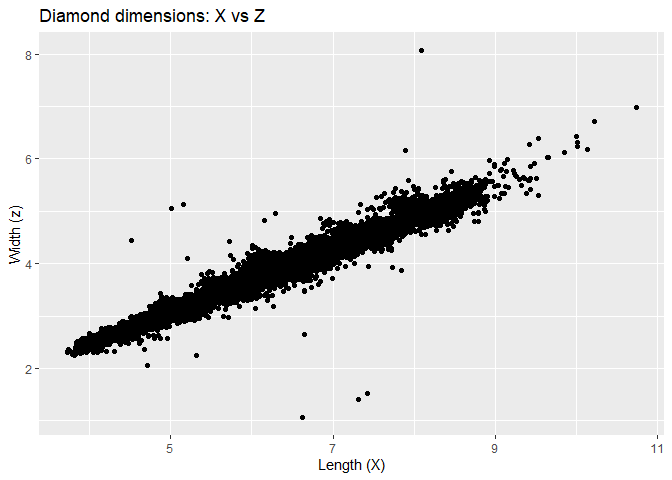
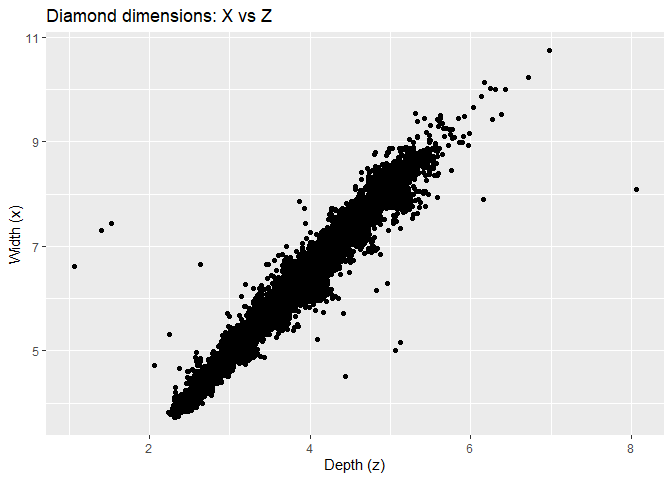
fixed graphs

diff --git a/hw_5.md b/hw_5.md
@@ -55,16 +55,16 @@ print(condensed_diamonds)
     ## # A tibble: 539 x 10
     ##    carat cut       color clarity depth table price     x     y     z
     ##    <dbl> <ord>     <ord> <ord>   <dbl> <dbl> <int> <dbl> <dbl> <dbl>
-    ##  1  0.34 Ideal     D     VVS1     61.2    57  1272  4.51  4.54  2.77
-    ##  2  0.26 Ideal     E     VVS2     62.9    58   554  4.02  4.06  2.54
-    ##  3  0.5  Premium   E     SI1      62.3    58  1316  5.09  5.15  3.19
-    ##  4  0.28 Very Good E     VVS1     61.1    60   646  4.17  4.21  2.56
-    ##  5  0.42 Ideal     D     VS1      62.1    56  1235  4.82  4.78  2.98
-    ##  6  0.41 Good      H     SI1      64.3    54   748  4.72  4.68  3.02
-    ##  7  0.31 Ideal     E     VVS2     61.7    56  1046  4.36  4.33  2.68
-    ##  8  0.33 Ideal     E     VS1      61.5    56   692  4.45  4.5   2.75
-    ##  9  0.36 Premium   E     VS2      62.5    58   684  4.52  4.57  2.84
-    ## 10  0.3  Ideal     E     VVS2     61.8    56  1013  4.35  4.33  2.68
+    ##  1  0.72 Premium   F     SI1      59.9    58  2742  5.85  5.81  3.49
+    ##  2  1.02 Ideal     E     SI2      62      59  4645  6.43  6.4   3.98
+    ##  3  0.72 Premium   E     SI1      62.1    58  2385  5.72  5.69  3.54
+    ##  4  0.34 Very Good F     VS2      62.9    58   686  4.44  4.46  2.8 
+    ##  5  1.54 Ideal     G     VVS1     60.8    57 16316  7.49  7.45  4.54
+    ##  6  1.15 Good      F     SI2      63.8    57  4437  6.65  6.6   4.23
+    ##  7  1.01 Ideal     E     SI2      61.9    56  4921  6.46  6.43  3.99
+    ##  8  0.35 Ideal     H     SI1      61.5    56   523  4.56  4.58  2.81
+    ##  9  0.81 Ideal     H     SI1      62.1    54  2435  6     6.02  3.73
+    ## 10  1    Very Good F     SI2      61.3    61  4372  6.36  6.39  3.91
     ## # ... with 529 more rows
 
 # Calculating the average size of 100 largest diamonds
@@ -80,14 +80,14 @@ condensed_diamonds %>%
     ## # Groups:   clarity [8]
     ##   clarity     n
     ##   <ord>   <int>
-    ## 1 I1          8
-    ## 2 SI2        83
-    ## 3 SI1       135
-    ## 4 VS2       129
-    ## 5 VS1        81
+    ## 1 I1          5
+    ## 2 SI2        75
+    ## 3 SI1       127
+    ## 4 VS2       130
+    ## 5 VS1        92
     ## 6 VVS2       48
-    ## 7 VVS1       37
-    ## 8 IF         18
+    ## 7 VVS1       39
+    ## 8 IF         23
 
 Since the condensed subset of data does not have 100 diamonds in each
 category, we will use the original data.
@@ -177,8 +177,8 @@ of the diamonds data set.
 
 ``` r
 ggplot(diamonds) +
-  geom_point(mapping = aes(x = x, y = y)) +
-  labs(title = "Diamond Dimension: X vs. Y", x = "Length (x)", y = "Height (y)")
+  geom_point(mapping = aes(x = y, y = x)) +
+  labs(title = "Diamond Dimension: X vs. Y", x = "Length (y)", y = "Width (x)")
 ```
 
 ![](hw_5_files/figure-gfm/unnamed-chunk-8-1.png)<!-- -->
@@ -191,8 +191,8 @@ get rid of in order to make a better plot.
 x_y_diamonds <- diamonds %>%
   filter(x > 3 & y < 20)
 ggplot(x_y_diamonds) +
-  geom_point(mapping = aes(x = x, y = y)) +
-  labs(title = "Diamond dimensions: X vs Y", x = "Length (X)", y = "Height (y)")
+  geom_point(mapping = aes(x = y, y = x)) +
+  labs(title = "Diamond dimensions: X vs Y", x = "Length (y)", y = "Width (x)")
 ```
 
 ![](hw_5_files/figure-gfm/unnamed-chunk-9-1.png)<!-- -->
@@ -203,8 +203,8 @@ We now need to make a plot of X vs Z.
 
 ``` r
 ggplot(diamonds) +
-  geom_point(mapping = aes(x = x, y = z)) +
-  labs(title = "Diamond Dimension: X vs. Z", x = "Length (x)", y = "Width (z)")
+  geom_point(mapping = aes(x = z, y = x)) +
+  labs(title = "Diamond Dimension: X vs. Z", x = "Depth (z)", y = "Width (x)")
 ```
 
 ![](hw_5_files/figure-gfm/unnamed-chunk-10-1.png)<!-- -->
@@ -216,8 +216,8 @@ outliers
 x_z_diamonds <- diamonds %>%
   filter(x > 3 & z < 10 & z > 1)
 ggplot(x_z_diamonds) +
-  geom_point(mapping = aes(x = x, y = z)) +
-  labs(title = "Diamond dimensions: X vs Z", x = "Length (X)", y = "Width (z)")
+  geom_point(mapping = aes(x = z, y = x)) +
+  labs(title = "Diamond dimensions: X vs Z", x = "Depth (z)", y = "Width (x)")
 ```
 
 ![](hw_5_files/figure-gfm/unnamed-chunk-11-1.png)<!-- -->
